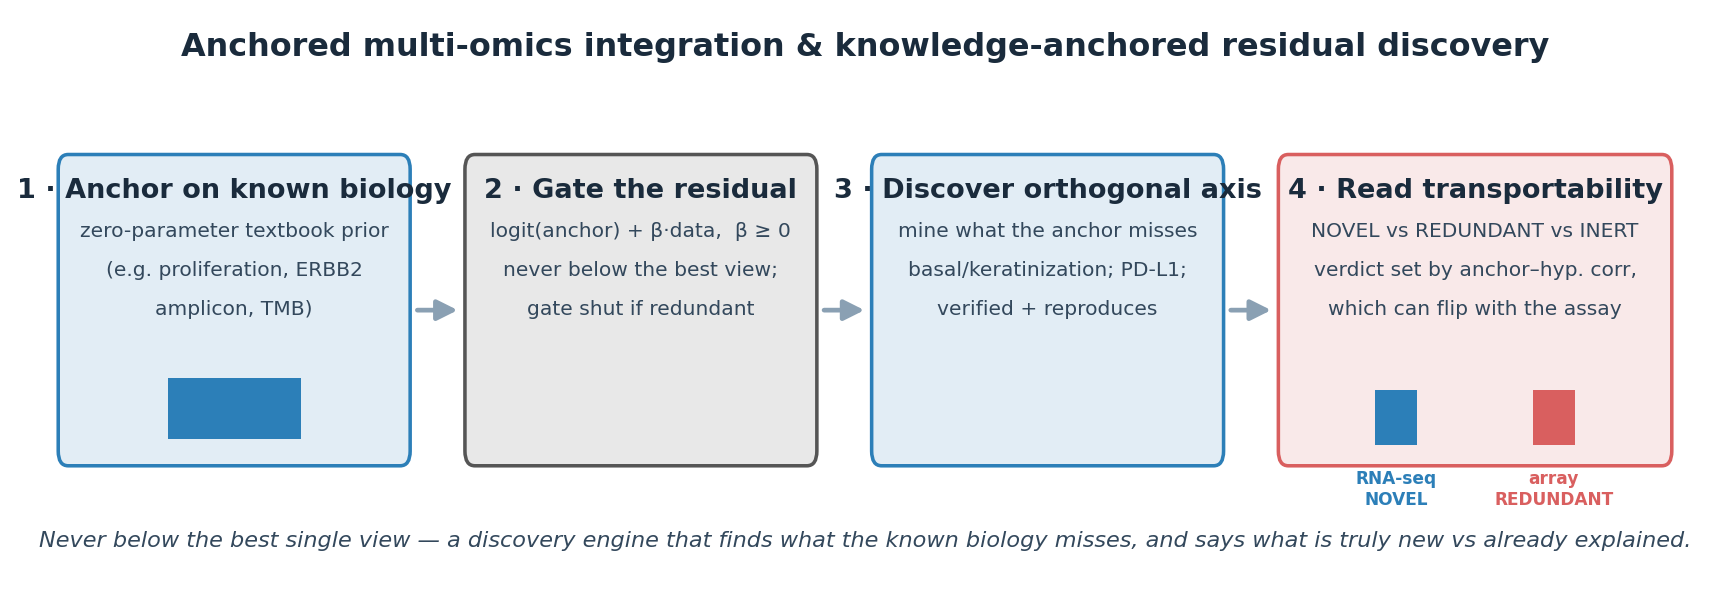
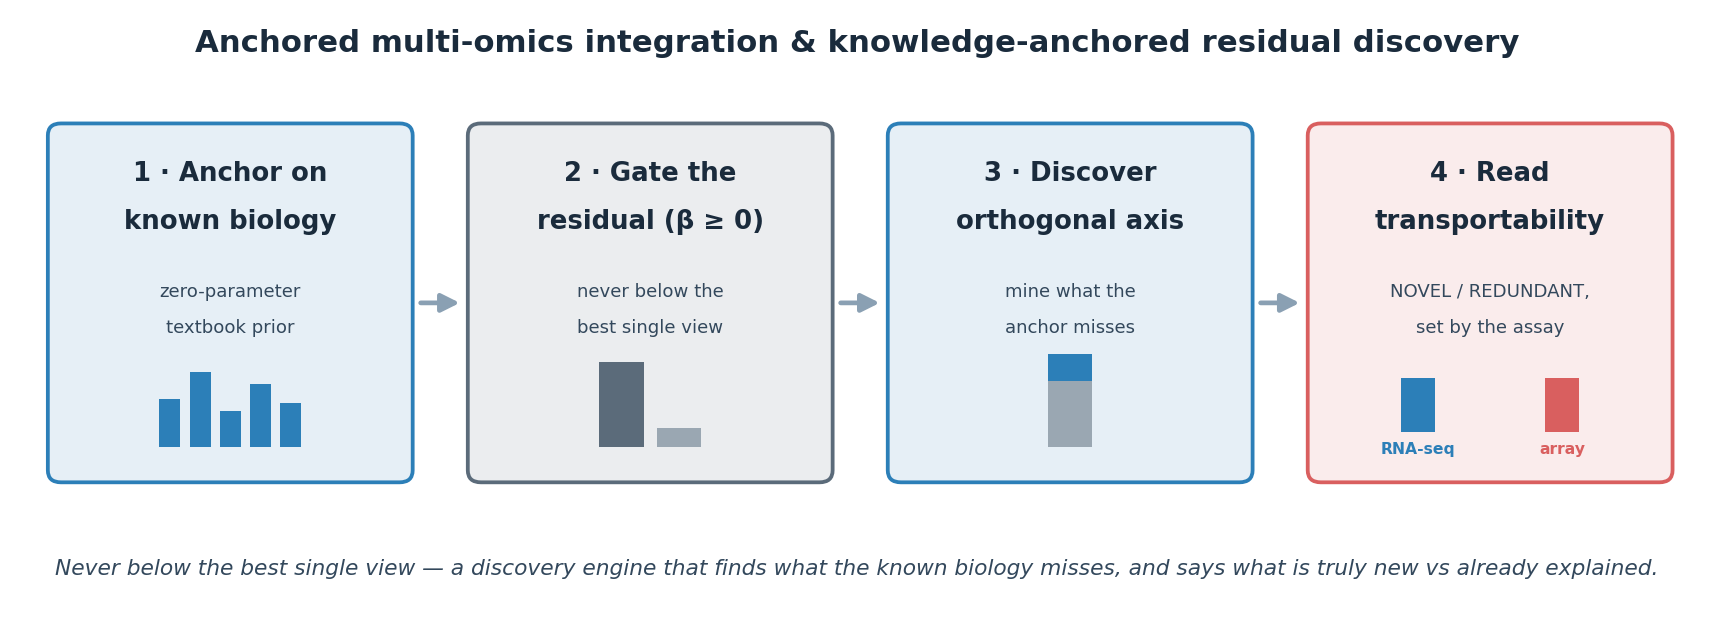
feat(#4 + fig): add 5th endpoint (HER2-subtype, amplicon->immune) + fix graphical abstract
#4 Additional endpoint: add Her2_subtype_vs_rest (ERBB2-amplicon anchor -> immune hypothesis) to the panel in
all four cohorts. It is NOVEL and transports everywhere (transport_score 1.0): immune infiltration adds a real
axis beyond the amplicon for the HER2-enriched subtype. Panel is now 5 endpoints x 4 cohorts (3/5 transport).
Update manuscript/methods/whitepaper/preprint counts (four->five, two->three transport) and the golden guard.

Also redraw the graphical abstract so titles wrap within the boxes, the stage-1/3 glyphs read as bar motifs,
and the stage-4 platform labels sit inside the box (previously overflowing). Suite 81 passed, 1 skipped.

diff --git a/reports/fig_graphical_abstract.py b/reports/fig_graphical_abstract.py
@@ -9,64 +9,79 @@ depending on the measurement platform. Writes reports/figs/graphical_abstract.pn
 Run:  python reports/fig_graphical_abstract.py
 """
 import os
-import numpy as np
 import matplotlib
 matplotlib.use("Agg")
 import matplotlib.pyplot as plt
 from matplotlib.patches import FancyBboxPatch, FancyArrowPatch
 
 HERE = os.path.dirname(os.path.abspath(__file__)); FIGS = os.path.join(HERE, "figs"); os.makedirs(FIGS, exist_ok=True)
-BLUE, RED, GREY, INK = "#2c7fb8", "#d95f5f", "#bdbdbd", "#1a2b3c"
+BLUE, RED, GREY, INK, SUB = "#2c7fb8", "#d95f5f", "#9aa7b2", "#1a2b3c", "#33485c"
+
+W, H, YB = 2.75, 2.95, 1.15          # box width, height, bottom y
+YT = YB + H                           # box top
+XS = [0.25, 3.45, 6.65, 9.85]         # box left edges (gap 0.45 for arrows)
 
 
-def box(ax, x, w, title, color, sub):
-    ax.add_patch(FancyBboxPatch((x, 1.05), w, 2.5, boxstyle="round,pad=0.02,rounding_size=0.12",
-                                linewidth=1.5, edgecolor=color, facecolor=color + "22"))
-    ax.text(x + w / 2, 3.28, title, ha="center", va="center", fontsize=11.5, fontweight="bold", color=INK)
-    for i, s in enumerate(sub):
-        ax.text(x + w / 2, 2.95 - i * 0.32, s, ha="center", va="center", fontsize=8.6, color="#33485c")
+def draw_box(ax, x, color, title_lines, sublines):
+    cx = x + W / 2
+    ax.add_patch(FancyBboxPatch((x, YB), W, H, boxstyle="round,pad=0.015,rounding_size=0.10",
+                                linewidth=1.6, edgecolor=color, facecolor=color + "1e"))
+    for i, t in enumerate(title_lines):
+        ax.text(cx, YT - 0.40 - i * 0.40, t, ha="center", va="center", fontsize=11, fontweight="bold", color=INK)
+    y0 = YT - 0.40 - len(title_lines) * 0.40 - 0.18
+    for i, s in enumerate(sublines):
+        ax.text(cx, y0 - i * 0.30, s, ha="center", va="center", fontsize=7.7, color=SUB)
+    return cx
+
+
+def bars(ax, cx, base, heights, colors, bw=0.16, gap=0.07):
+    n = len(heights); total = n * bw + (n - 1) * gap; x = cx - total / 2
+    for h, c in zip(heights, colors):
+        ax.add_patch(plt.Rectangle((x, base), bw, h, facecolor=c, edgecolor="none")); x += bw + gap
 
 
 def arrow(ax, x0, x1):
-    ax.add_patch(FancyArrowPatch((x0, 2.3), (x1, 2.3), arrowstyle="-|>", mutation_scale=18,
-                                 linewidth=2, color="#8aa0b3"))
-
-
-def minibars(ax, cx, cy, heights, colors, w=0.12, gap=0.05, scale=0.9):
-    n = len(heights); total = n * w + (n - 1) * gap; x = cx - total / 2
-    for h, c in zip(heights, colors):
-        ax.add_patch(plt.Rectangle((x, cy), w, h * scale, facecolor=c, edgecolor="none"))
-        x += w + gap
+    ax.add_patch(FancyArrowPatch((x0, YB + H / 2), (x1, YB + H / 2), arrowstyle="-|>",
+                                 mutation_scale=16, linewidth=2, color="#8aa0b3"))
 
 
 def main():
-    fig, ax = plt.subplots(figsize=(12.6, 4.4))
-    ax.set_xlim(0, 20); ax.set_ylim(0, 4.7); ax.axis("off")
+    fig, ax = plt.subplots(figsize=(12.8, 4.6))
+    ax.set_xlim(0, 12.85); ax.set_ylim(0, 5.0); ax.axis("off")
+    ax.text(6.4, 4.78, "Anchored multi-omics integration & knowledge-anchored residual discovery",
+            ha="center", va="center", fontsize=13, fontweight="bold", color=INK)
 
-    ax.text(10, 4.45, "Anchored multi-omics integration & knowledge-anchored residual discovery",
-            ha="center", va="center", fontsize=13.5, fontweight="bold", color=INK)
+    # 1 · anchor — a gene-signature glyph (several bars)
+    cx = draw_box(ax, XS[0], BLUE, ["1 · Anchor on", "known biology"],
+                  ["zero-parameter", "textbook prior"])
+    bars(ax, cx, YB + 0.28, [0.40, 0.62, 0.30, 0.52, 0.36], [BLUE] * 5)
 
-    box(ax, 0.3, 4.2, "1 · Anchor on known biology", BLUE,
-        ["zero-parameter textbook prior", "(e.g. proliferation, ERBB2", "amplicon, TMB)"])
-    minibars(ax, 2.4, 1.25, [0.55], [BLUE], w=1.6)
-    box(ax, 5.2, 4.2, "2 · Gate the residual", "#555555",
-        ["logit(anchor) + β·data,  β ≥ 0", "never below the best view;", "gate shut if redundant"])
-    box(ax, 10.1, 4.2, "3 · Discover orthogonal axis", BLUE,
-        ["mine what the anchor misses", "basal/keratinization; PD-L1;", "verified + reproduces"])
-    box(ax, 15.0, 4.7, "4 · Read transportability", RED,
-        ["NOVEL vs REDUNDANT vs INERT", "verdict set by anchor–hyp. corr,", "which can flip with the assay"])
+    # 2 · gate — anchor bar (tall) + small gated residual on top
+    cx = draw_box(ax, XS[1], "#5b6b7a", ["2 · Gate the", "residual (β ≥ 0)"],
+                  ["never below the", "best single view"])
+    bars(ax, cx, YB + 0.28, [0.70, 0.16], ["#5b6b7a", GREY], bw=0.34, gap=0.10)
 
-    arrow(ax, 4.55, 5.15); arrow(ax, 9.45, 10.05); arrow(ax, 14.35, 14.95)
+    # 3 · discover — anchor bar + orthogonal increment highlighted
+    cx = draw_box(ax, XS[2], BLUE, ["3 · Discover", "orthogonal axis"],
+                  ["mine what the", "anchor misses"])
+    ax.add_patch(plt.Rectangle((cx - 0.17, YB + 0.28), 0.34, 0.55, facecolor=GREY, edgecolor="none"))
+    ax.add_patch(plt.Rectangle((cx - 0.17, YB + 0.83), 0.34, 0.22, facecolor=BLUE, edgecolor="none"))
 
-    # stage-4 mini motif: same effect, opposite label by platform
-    minibars(ax, 16.4, 1.2, [0.5], [BLUE], w=0.5)      # RNA-seq -> NOVEL (blue)
-    minibars(ax, 18.3, 1.2, [0.5], [RED], w=0.5)       # microarray -> REDUNDANT (red)
-    ax.text(16.4, 1.0, "RNA-seq\nNOVEL", ha="center", va="top", fontsize=7.2, color=BLUE, fontweight="bold")
-    ax.text(18.3, 1.0, "array\nREDUNDANT", ha="center", va="top", fontsize=7.2, color=RED, fontweight="bold")
+    # 4 · transportability — same effect, opposite label by platform (two labelled bars, inside the box)
+    cx = draw_box(ax, XS[3], RED, ["4 · Read", "transportability"],
+                  ["NOVEL / REDUNDANT,", "set by the assay"])
+    bx = cx - 0.55
+    ax.add_patch(plt.Rectangle((bx - 0.13, YB + 0.40), 0.26, 0.45, facecolor=BLUE, edgecolor="none"))
+    ax.add_patch(plt.Rectangle((cx + 0.55 - 0.13, YB + 0.40), 0.26, 0.45, facecolor=RED, edgecolor="none"))
+    ax.text(bx, YB + 0.26, "RNA-seq", ha="center", va="center", fontsize=6.6, color=BLUE, fontweight="bold")
+    ax.text(cx + 0.55, YB + 0.26, "array", ha="center", va="center", fontsize=6.6, color=RED, fontweight="bold")
 
-    ax.text(10, 0.42, "Never below the best single view — a discovery engine that finds what the known biology misses, "
-            "and says what is truly new vs already explained.", ha="center", va="center", fontsize=9.5,
-            style="italic", color="#33485c")
+    for i in range(3):
+        arrow(ax, XS[i] + W + 0.04, XS[i + 1] - 0.04)
+
+    ax.text(6.4, 0.42, "Never below the best single view — a discovery engine that finds what the known biology "
+            "misses, and says what is truly new vs already explained.", ha="center", va="center",
+            fontsize=9.2, style="italic", color=SUB)
 
     fig.savefig(os.path.join(FIGS, "graphical_abstract.png"), dpi=170, bbox_inches="tight", facecolor="white")
     print("wrote", os.path.join(FIGS, "graphical_abstract.png"))

diff --git a/tests/test_golden.py b/tests/test_golden.py
@@ -568,6 +568,31 @@ def test_endpoint_panel_guard():
         assert g[("LumA_vs_LumB", "SCAN-B")] != g[("LumA_vs_LumB", "METABRIC")]
 
 
+def test_transportability_metric_guard():
+    """Bootstrap CIs + transport_score on the panel: the transportable endpoints (basal->immune,
+    ER-status->proliferation) score 1.0 (identical label everywhere), the ER-collinearity endpoints score < 1,
+    and the LumA/B platform sign-flip is statistically grounded -- SCAN-B's correlation CI is wholly positive
+    while METABRIC's is wholly negative (non-overlapping). Skip-safe."""
+    f = REPO / "endpoint_panel.csv"
+    if not f.exists():
+        pytest.skip("endpoint_panel.csv not committed")
+    d = pd.read_csv(f)
+    for col in ["corr_lo", "corr_hi", "unique_r2_lo", "unique_r2_hi", "transport_score", "corr_spread"]:
+        assert col in d.columns
+    ts = d.drop_duplicates("endpoint").set_index("endpoint")["transport_score"]
+    assert ts["Basal_vs_rest"] == 1.0 and ts["ER_pos_vs_neg"] == 1.0
+    assert ts["LumA_vs_LumB"] < 1.0 and ts["HER2_pos_vs_neg"] < 1.0
+    if "Her2_subtype_vs_rest" in ts.index:                                   # 5th endpoint: amplicon -> immune
+        assert ts["Her2_subtype_vs_rest"] == 1.0                             # immune transports beyond the amplicon
+        assert (d[d.endpoint == "Her2_subtype_vs_rest"]["collinearity_label"] == "NOVEL").all()
+    g = d.set_index(["endpoint", "cohort"])
+    if ("LumA_vs_LumB", "SCAN-B") in g.index and ("LumA_vs_LumB", "METABRIC") in g.index:
+        assert float(g.loc[("LumA_vs_LumB", "SCAN-B"), "corr_lo"]) > 0          # SCAN-B: CI wholly positive
+        assert float(g.loc[("LumA_vs_LumB", "METABRIC"), "corr_hi"]) < 0        # METABRIC: CI wholly negative
+    # basal->immune is a real orthogonal axis: its unique-R2 CI stays above 0 in the TCGA RNA-seq cohort
+    assert float(g.loc[("Basal_vs_rest", "TCGA_RNAseq"), "unique_r2_lo"]) > 0
+
+
 def test_platform_corr_sign_guard():
     """Mechanism behind the LumA/B label split: corr(proliferation, ER) flips SIGN by platform family.
     RNA-seq cohorts (TCGA_RNAseq, SCAN-B) have a positive correlation and are labelled NOVEL; microarray

diff --git a/reports/dmoi_endpoint_panel.py b/reports/dmoi_endpoint_panel.py
@@ -52,7 +52,9 @@ ENDPOINTS = {
     "HER2_pos_vs_neg": (AMP, "ERBB2_amplicon", ER, "ER"),
     "ER_pos_vs_neg":   (ER, "ER_signature", PROLIF, "proliferation"),
     "Basal_vs_rest":   (BASAL, "basal", IMMUNE, "immune"),
+    "Her2_subtype_vs_rest": (AMP, "ERBB2_amplicon", IMMUNE, "immune"),
 }
+SUBTYPES5 = ["LumA", "LumB", "Basal", "Her2", "Normal"]
 
 
 def _score(E, genes):
@@ -89,6 +91,7 @@ def _tcga_cohort(name, ex, cl):
     m = her2.isin(["Positive", "Negative"]); out.append(_cell(name, "HER2_pos_vs_neg", ex.loc[:, m], (her2[m] == "Positive").astype(int).values))
     m = er.isin(["Positive", "Negative"]); out.append(_cell(name, "ER_pos_vs_neg", ex.loc[:, m], (er[m] == "Positive").astype(int).values))
     m = pam.isin(["LumA", "LumB", "Basal", "Her2", "Normal"]); out.append(_cell(name, "Basal_vs_rest", ex.loc[:, m], (pam[m] == "Basal").astype(int).values))
+    m = pam.isin(SUBTYPES5); out.append(_cell(name, "Her2_subtype_vs_rest", ex.loc[:, m], (pam[m] == "Her2").astype(int).values))
     return out
 
 
@@ -121,6 +124,8 @@ def _metabric():
     out.append(_cell("METABRIC", "ER_pos_vs_neg", E, np.array([1 if er[c].startswith("Pos") else 0 for c in s])))
     ids = sub[sub.isin(["LumA", "LumB", "Basal", "Her2", "Normal"])].index; E, s = E_for(ids)
     out.append(_cell("METABRIC", "Basal_vs_rest", E, np.array([1 if sub[c] == "Basal" else 0 for c in s])))
+    ids = sub[sub.isin(SUBTYPES5)].index; E, s = E_for(ids)
+    out.append(_cell("METABRIC", "Her2_subtype_vs_rest", E, np.array([1 if sub[c] == "Her2" else 0 for c in s])))
     return out
 
 
@@ -142,6 +147,7 @@ def _scanb():
     m = her2.isin([0, 1]); out.append(_cell("SCAN-B", "HER2_pos_vs_neg", E.loc[:, m], (her2[m] == 1).astype(int).values))
     m = er.isin([0, 1]); out.append(_cell("SCAN-B", "ER_pos_vs_neg", E.loc[:, m], (er[m] == 1).astype(int).values))
     m = pam.isin(["LumA", "LumB", "Basal", "Her2", "Normal"]); out.append(_cell("SCAN-B", "Basal_vs_rest", E.loc[:, m], (pam[m] == "Basal").astype(int).values))
+    m = pam.isin(SUBTYPES5); out.append(_cell("SCAN-B", "Her2_subtype_vs_rest", E.loc[:, m], (pam[m] == "Her2").astype(int).values))
     return out
 
 

diff --git a/reports/anchored_integration_methods.md b/reports/anchored_integration_methods.md
@@ -297,16 +297,18 @@ correlation. So across two endpoints the framework distinguishes all three failu
 TCGA-LumA/B), *redundant/collinear* (ER in METABRIC-LumA/B and HER2), and *absent/weak* (ER for HER2 in TCGA)
 — rather than collapsing them into a single "fails to add."
 
-*A multi-endpoint × cohort panel.* Scaling the characterisation to four breast-cancer endpoints across four
+*A multi-endpoint × cohort panel.* Scaling the characterisation to five breast-cancer endpoints across four
 columns — TCGA RNA-seq, **TCGA Agilent microarray (the same patients on a different platform)**, METABRIC
 (an independent microarray cohort), and **SCAN-B (GSE96058, a fully independent Swedish RNA-seq cohort of
-~3,400 tumours)** — yields a compact map of where the label transports. Two endpoints transport, two do not.
+~3,400 tumours)** — yields a compact map of where the label transports. Three endpoints transport, two do not.
 The transportable ones are biologically robust: **Basal-vs-rest** with a basal/keratinization anchor and an
 immune hypothesis is **NOVEL in all four columns** (immune infiltration adds a real axis beyond the basal
-lineage program), and **ER-status** with the ER-signature anchor and a proliferation hypothesis carries a small
-but real unique proliferation slice (NOVEL) in all four — robust across platform *and* independent cohort. The
+lineage program), **ER-status** with the ER-signature anchor and a proliferation hypothesis carries a small but
+real unique proliferation slice (NOVEL) in all four, and **Her2-subtype-vs-rest** with the ERBB2-amplicon anchor
+and an immune hypothesis is **NOVEL in all four** (immune infiltration adds beyond the amplicon) — all robust
+across platform *and* independent cohort. The
 two that do *not* transport are exactly the ER-collinearity cases studied above — **LumA-vs-LumB**
-(proliferation→ER) and **HER2** (amplicon→ER). The four-column view exposes the mechanism cleanly: for
+(proliferation→ER) and **HER2** (amplicon→ER). The panel exposes the mechanism cleanly: for
 LumA-vs-LumB the label tracks **measurement technology**, NOVEL on *both* RNA-seq cohorts (TCGA RNA-seq and the
 independent SCAN-B) yet REDUNDANT on *both* microarrays (TCGA Agilent and METABRIC) — it even flips on the same
 TCGA patients between their RNA-seq and Agilent measurements, before any change of cohort. So the
@@ -315,6 +317,14 @@ anchor is itself measurement-dependent, while genuinely anchor-orthogonal axes (
 across platform and cohort. Runner: `reports/dmoi_endpoint_panel.py` (`endpoint_panel.csv`,
 `figs/endpoint_panel.png`); the Agilent column auto-adds when AgilentG4502A_07_3.gz (UCSC Xena) is present and
 the SCAN-B column when the pre-extracted GSE96058 marker matrix + phenotype are in SCANB_DIR.
+
+*Inference.* Each panel cell carries a non-parametric bootstrap 95 % CI (class-stratified, 300 resamples;
+`bootstrap_commonality`) for both the unique-R² and the anchor–hypothesis correlation, and each endpoint a
+`transport_score` (fraction of cohort-pairs with the same commonality label, 1.0 = identical everywhere) plus
+the corr spread across cohorts. This grounds the platform claim statistically: for LumA-vs-LumB the
+corr(proliferation, ER) CI is wholly positive in SCAN-B and wholly negative in METABRIC (non-overlapping), the
+transport_score is 1.0 for the anchor-orthogonal axes and 0.17–0.33 for the two ER-collinearity endpoints, and
+the basal→immune unique-R² CI stays above zero in every cohort.
 
 The mechanism is concrete and quantitative (`reports/fig_platform_corr.py`, `figs/platform_corr.png`): for
 LumA-vs-LumB the **sign of corr(proliferation, ER) flips by platform** — it is **positive on RNA-seq**

diff --git a/reports/anchored_integration_manuscript.md b/reports/anchored_integration_manuscript.md
@@ -70,7 +70,7 @@ lung (LUAD vs LUSC, n = 1,129), the same proliferation-anchored residual recover
 program, overlapping the breast basal panel 10/30 (p ≈ 3×10⁻¹⁶) — the same genes in a different cancer.
 Inverting the frame, a *hypothesis* can be expressed as a candidate anchor and tested against the textbook
 anchor; a commonality/mediation decomposition then separates a genuinely novel axis from one that is merely
-redundant (collinear) or absent, and a four-endpoint × four-cohort panel (TCGA RNA-seq, TCGA Agilent, METABRIC,
+redundant (collinear) or absent, and a five-endpoint × four-cohort panel (TCGA RNA-seq, TCGA Agilent, METABRIC,
 SCAN-B) shows that anchor-orthogonal axes (e.g. an immune program beyond the basal lineage) transport across
 platform and cohort, whereas collinear ones do not — their verdict is governed by a nuisance correlation that
 can itself flip sign with the assay (RNA-seq vs microarray). **Conclusion.** Anchor on
@@ -195,14 +195,16 @@ mediated by the amplicon). Across the two endpoints the framework cleanly separa
 (ER in TCGA Luminal A/B), *redundant/collinear* (ER in METABRIC Luminal A/B and HER2), and *absent/weak* (ER
 for HER2 in TCGA).
 
-Extending this to a four-endpoint × four-column panel (Figure 3) — TCGA RNA-seq, TCGA Agilent microarray
+Extending this to a five-endpoint × four-column panel (Figure 3) — TCGA RNA-seq, TCGA Agilent microarray
 (the *same* patients on a different platform), METABRIC (an independent microarray cohort), and SCAN-B
 (GSE96058, a fully independent Swedish RNA-seq cohort of ~3,400 tumours) — makes the practical payload
-explicit: of four endpoints, two transport and two do not. The transportable pairs are orthogonal, biologically
-robust axes — a basal/keratinization anchor with an immune hypothesis is NOVEL in *all four* columns (immune
-infiltration adds a real axis beyond the basal lineage program), and an ER-signature anchor with a
-proliferation hypothesis carries a small but genuine unique proliferation slice in all four — robust across
-platform *and* independent cohort. The two that do *not* transport are exactly the ER-collinearity cases above
+explicit: of five endpoints, three transport and two do not. The transportable trio are orthogonal,
+biologically robust axes — a basal/keratinization anchor with an immune hypothesis is NOVEL in *all four*
+columns (immune infiltration adds a real axis beyond the basal lineage program), an ER-signature anchor with a
+proliferation hypothesis carries a small but genuine unique proliferation slice in all four, and an
+ERBB2-amplicon anchor with an immune hypothesis on the HER2-enriched subtype is NOVEL in all four (immune
+infiltration adds beyond the amplicon) — all robust across platform *and* independent cohort. The two that do
+*not* transport are exactly the ER-collinearity cases above
 (proliferation→ER on Luminal A/B; amplicon→ER on HER2), and the four columns expose why: for Luminal A/B the
 label tracks *measurement technology* — NOVEL on both RNA-seq cohorts (TCGA RNA-seq and the independent SCAN-B)
 yet REDUNDANT on both microarrays (TCGA Agilent and METABRIC), flipping even on the same TCGA patients between
@@ -210,7 +212,7 @@ their RNA-seq and Agilent measurements. The transportability caveat is therefore
 attaches to hypotheses whose collinearity with the anchor is itself measurement-dependent, while genuinely
 anchor-orthogonal axes transport cleanly across platform and cohort.
 
-![**Figure 3. Anchored hypothesis labels across four endpoints × four columns (TCGA RNA-seq, TCGA Agilent,
+![**Figure 3. Anchored hypothesis labels across five endpoints × four columns (TCGA RNA-seq, TCGA Agilent,
 METABRIC, SCAN-B).** Each cell is one (anchor → hypothesis) test in one column, coloured by the commonality
 label (NOVEL = carries variance unique to the hypothesis beyond the anchor; REDUNDANT = predicts but
 collinear/mediated; INERT = no appreciable signal), with the cross-validated verdict and the redundancy below

diff --git a/reports/anchored_integration_whitepaper.md b/reports/anchored_integration_whitepaper.md
@@ -99,16 +99,17 @@ effects fixed, vary only the anchor–hypothesis correlation) reproduces this: t
 at TCGA's correlation (+0.19) yet collapses into a collinear/suppression valley at METABRIC's (−0.17). A second
 endpoint, HER2, confirms specificity (INERT in TCGA, REDUNDANT in METABRIC).
 
-Across four endpoints and four columns — TCGA RNA-seq; TCGA Agilent (the *same patients*, different platform);
-METABRIC (independent microarray); and SCAN-B (independent RNA-seq, ~3,400 tumours) — two endpoints transport
+Across five endpoints and four columns — TCGA RNA-seq; TCGA Agilent (the *same patients*, different platform);
+METABRIC (independent microarray); and SCAN-B (independent RNA-seq, ~3,400 tumours) — three endpoints transport
 and two do not:
 
 | Endpoint (anchor → hypothesis) | TCGA RNA-seq | TCGA Agilent | METABRIC | SCAN-B | Transports? |
 | :-- | :-- | :-- | :-- | :-- | :-- |
 | Basal vs rest (basal → immune) | NOVEL | NOVEL | NOVEL | NOVEL | ✓ |
 | ER status (ER → proliferation) | NOVEL | NOVEL | NOVEL | NOVEL | ✓ |
+| HER2-subtype vs rest (amplicon → immune) | NOVEL | NOVEL | NOVEL | NOVEL | ✓ |
 | LumA vs LumB (proliferation → ER) | NOVEL | REDUNDANT | REDUNDANT | NOVEL | ✗ |
-| HER2 (amplicon → ER) | INERT | INERT | REDUNDANT | NOVEL | ✗ |
+| HER2 status (amplicon → ER) | INERT | INERT | REDUNDANT | NOVEL | ✗ |
 
 For Luminal A/B the label tracks **measurement technology**: corr(proliferation, ER) is positive on both
 RNA-seq cohorts (+0.19, +0.10 → NOVEL) and negative on both microarrays (−0.10, −0.17 → REDUNDANT), flipping